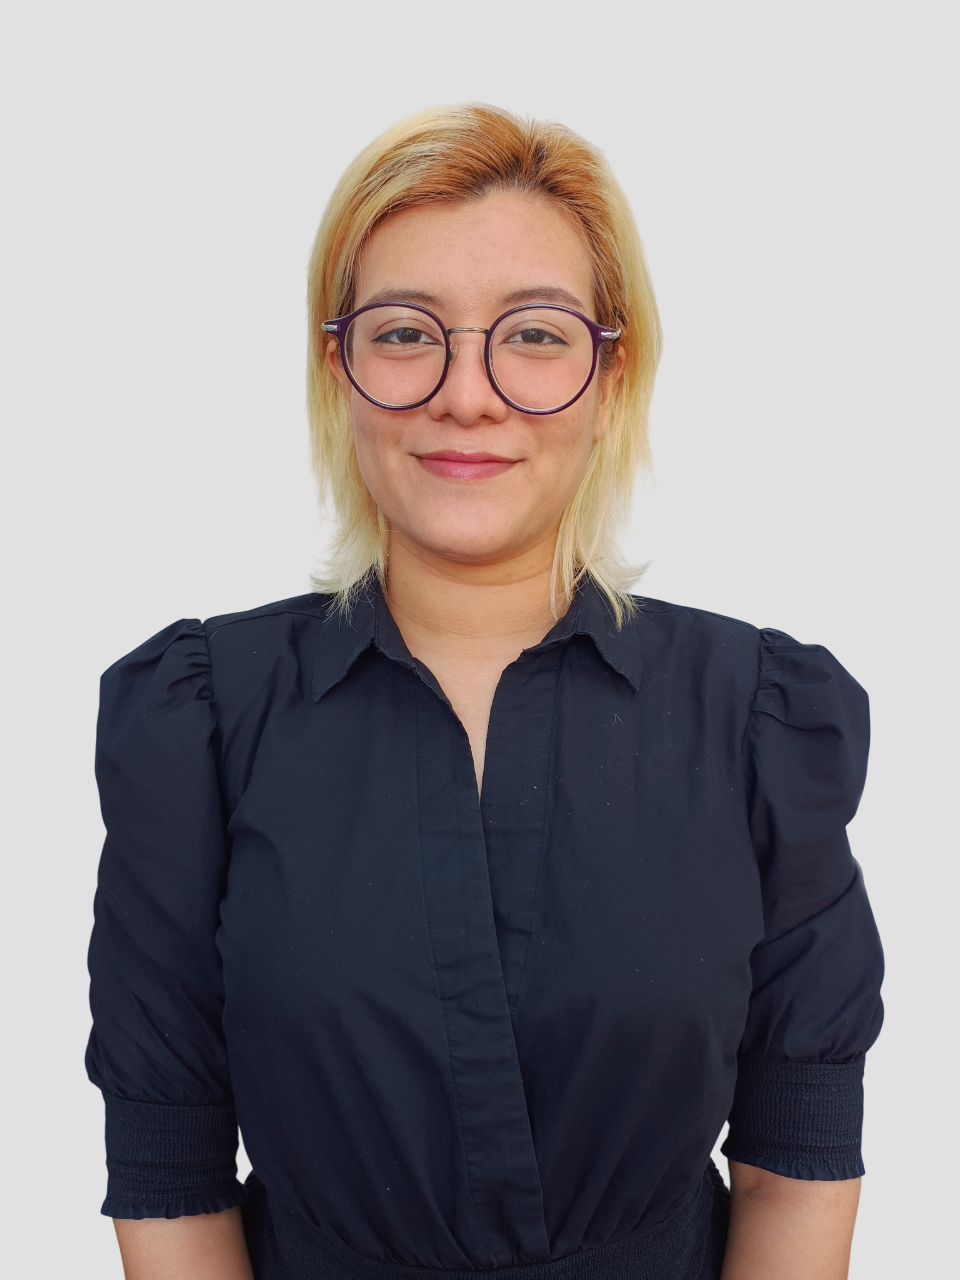
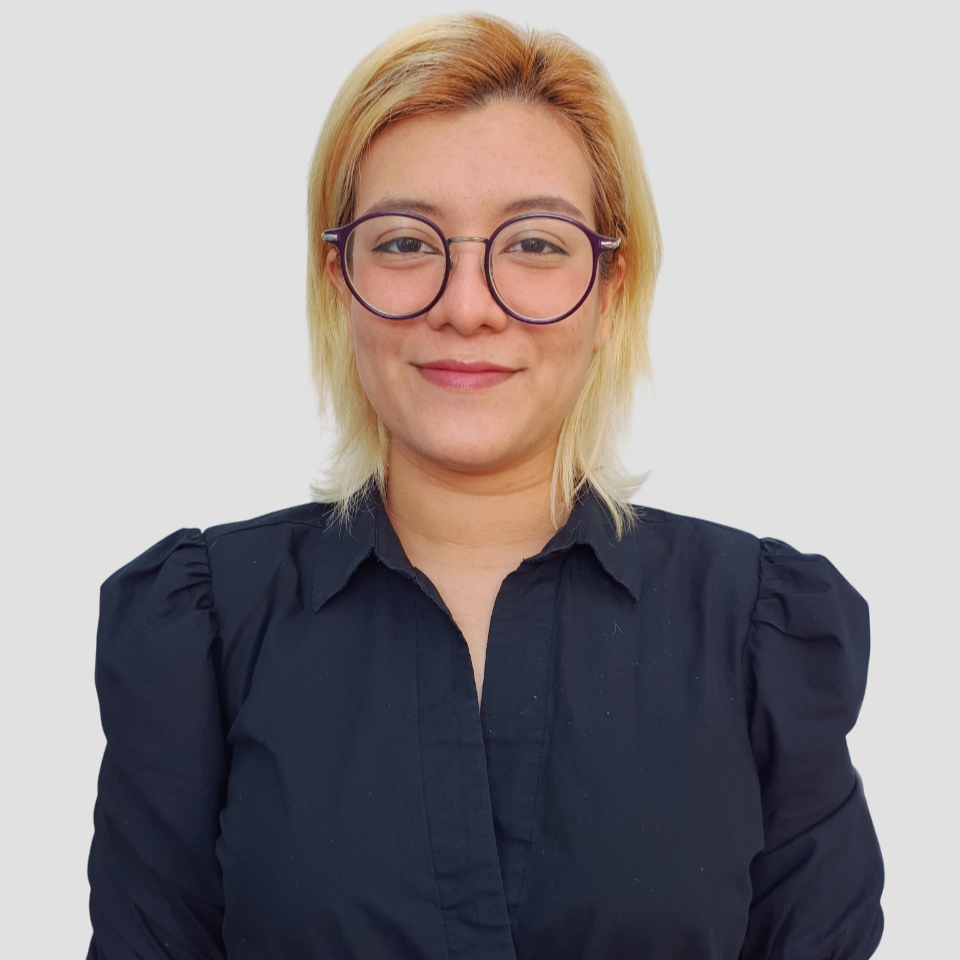
cambios en css y configuracion de imagen

diff --git a/style.css b/style.css
@@ -147,6 +147,19 @@
   .nav-list a:hover {
     background: var(--main-cyan);
   }
+
+  /* perfil-image */
+
+  .perfil-image {
+    display: block;
+    width: 250px;
+    max-width: 100%;
+    height: auto;
+    border: 2px solid var(--main-cyan);
+    border-radius: 50%;
+    box-shadow: 2px 2px 10px rgba(0,0,0,0.3);
+    object-fit: cover;
+  }
   
   /* inicio-section */
   

diff --git a/index.html b/index.html
@@ -26,7 +26,7 @@
     </nav> 
     <!--Inicio-->
     <section id="inicio" class="inicio-section">
-        
+        <img class="perfil-image" src="fotocv.png" alt="foto">
         <h1>Bienvenido a mi página web</h1>
         <p>ven y conoceme</p>
     </section>
